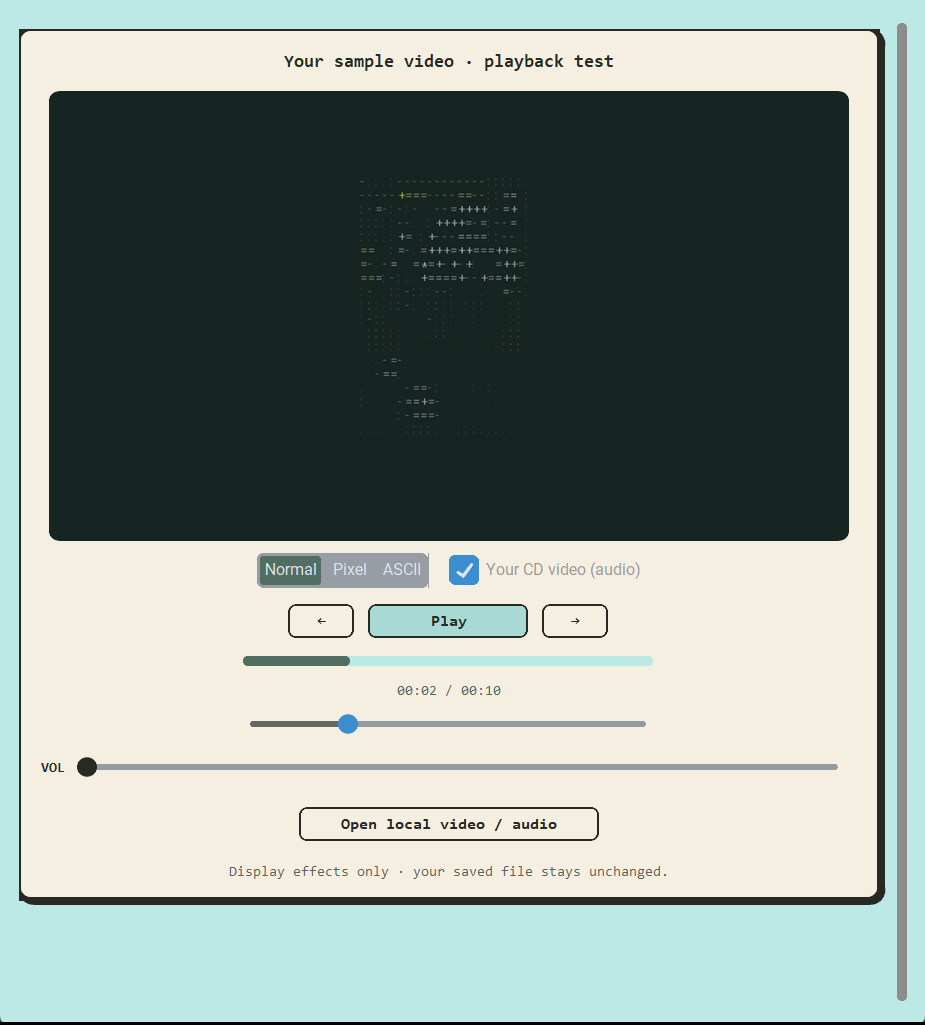
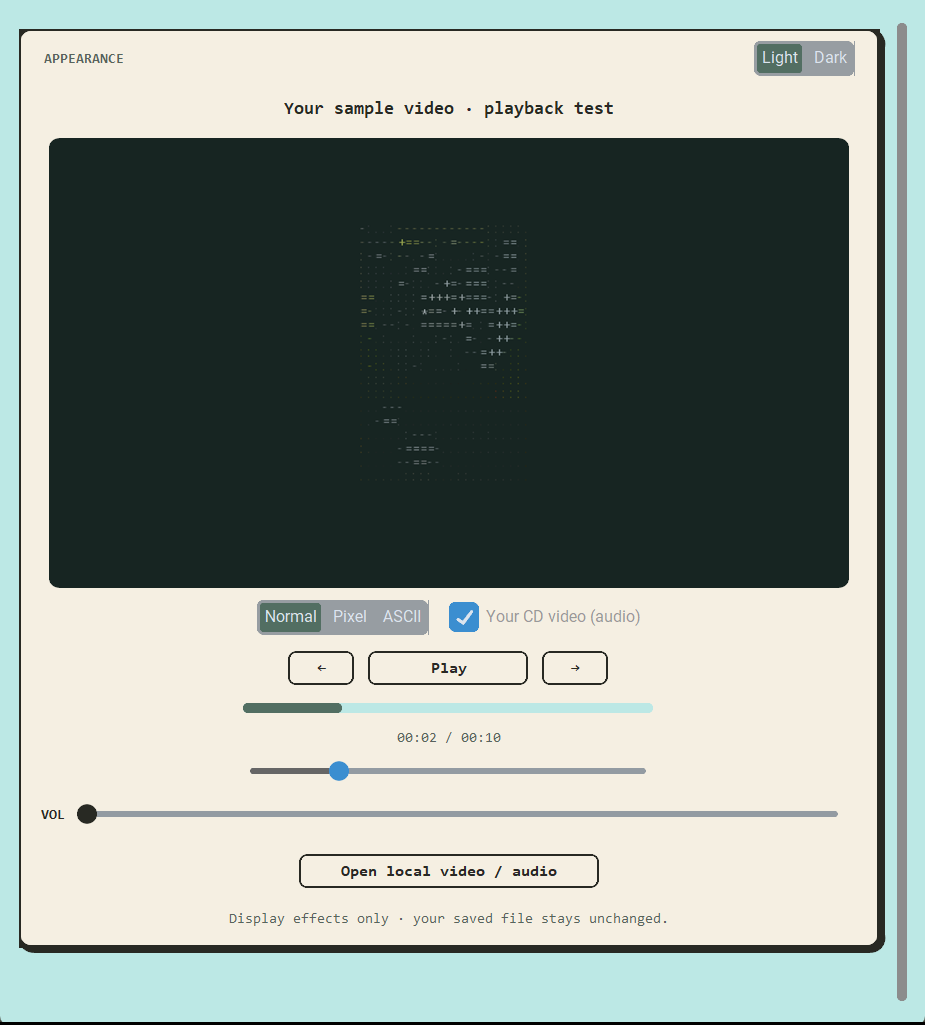
Add player theme controls and landscape CD visual

Changed region(s): [[0.0, 0.5307, 0.9686, 0.9366], [0.0303, 0.0312, 0.9384, 0.1561], [0.4238, 0.1873, 0.5751, 0.3122]]

diff --git a/sundrop/app.py b/sundrop/app.py
@@ -8,7 +8,7 @@ import customtkinter as ctk
 from PIL import Image, ImageDraw, ImageOps
 from core import Downloader, History, friendly_error
 from player import AudioPlayer, VideoPlayer, open_local
-from effects import video_effect
+from effects import video_effect, cd_landscape
 
 ctk.set_appearance_mode('Light')
 BG=('#BCE8E5','#203534');CARD=('#F5EFE2','#293a37');INK=('#282923','#f5efe2');MUTED=('#58635c','#b8cec5');AMBER='#f4bd35';OUTLINE=('#282923','#b8cec5')
@@ -74,7 +74,12 @@ class SunDrop(ctk.CTk):
             elif isinstance(child,ctk.CTkButton):child.configure(border_width=2,border_color=OUTLINE,corner_radius=7,font=ctk.CTkFont(family='Consolas',size=13,weight='bold'),fg_color=CARD,hover_color=('#a9d9d5','#3d5852'),text_color=INK)
             self.style_inputs(child)
 
-    def toggle_theme(self):ctk.set_appearance_mode('Dark' if ctk.get_appearance_mode()=='Light' else 'Light')
+    def set_theme(self,mode):
+        ctk.set_appearance_mode(mode)
+        if hasattr(self,'settings_theme'):self.settings_theme.set(mode)
+        if hasattr(self,'player_theme') and self.player_theme.winfo_exists():self.player_theme.set(ctk.get_appearance_mode())
+
+    def toggle_theme(self):self.set_theme('Dark' if ctk.get_appearance_mode()=='Light' else 'Light')
 
     def card(self,parent):
         shadow=ctk.CTkFrame(parent,fg_color=('#282923','#0f201d'),corner_radius=12);shadow.pack(fill='x',pady=10,padx=(0,5));shadow.grid_columnconfigure(0,weight=1)
@@ -113,7 +118,8 @@ class SunDrop(ctk.CTk):
     def build_settings(self):
         page=self.pages['Settings'];self.label(page,'Keep things comfortable.',28,True).pack(anchor='w',pady=12)
         card=self.card(page);self.label(card,'Appearance',18,True).pack(anchor='w',padx=24,pady=(24,10))
-        ctk.CTkSegmentedButton(card,values=['Light','Dark','System'],command=ctk.set_appearance_mode,selected_color='#b97805',selected_hover_color='#a16a09').pack(anchor='w',padx=24,pady=(0,24))
+        self.settings_theme=ctk.CTkSegmentedButton(card,values=['Light','Dark','System'],command=self.set_theme,selected_color='#b97805',selected_hover_color='#a16a09')
+        self.settings_theme.set(ctk.get_appearance_mode());self.settings_theme.pack(anchor='w',padx=24,pady=(0,24))
         card=self.card(page);self.label(card,'FFmpeg',18,True).pack(anchor='w',padx=24,pady=(24,10))
         self.label(card,('Detected: '+self.service.ffmpeg()) if self.service.ffmpeg() else 'Not installed. Single-file downloads are still available.',13,color=MUTED,wraplength=650).pack(anchor='w',padx=24,pady=(0,24))
         card=self.card(page)
@@ -221,6 +227,10 @@ class SunDrop(ctk.CTk):
         window=self.player_window
         body=ctk.CTkScrollableFrame(window,fg_color=BG);body.pack(fill='both',expand=True,padx=10,pady=8)
         card=self.card(body)
+        theme_row=ctk.CTkFrame(card,fg_color='transparent');theme_row.pack(fill='x',padx=20,pady=(10,0))
+        self.label(theme_row,'APPEARANCE',11,True,color=MUTED).pack(side='left')
+        self.player_theme=ctk.CTkSegmentedButton(theme_row,values=['Light','Dark'],command=self.set_theme,selected_color='#526e62')
+        self.player_theme.set(ctk.get_appearance_mode());self.player_theme.pack(side='right')
         self.track_title=self.label(card,'Open a video or audio file.',14,True,wraplength=620);self.track_title.pack(padx=15,pady=(12,5))
         self.player_cover=ctk.CTkLabel(card,text='Open a local file below, or choose one from your library.',width=640,height=360,fg_color='#172522',corner_radius=8);self.player_cover.pack(padx=20,pady=5)
         effects=ctk.CTkFrame(card,fg_color='transparent');effects.pack(pady=5)
@@ -263,7 +273,7 @@ class SunDrop(ctk.CTk):
             image=video_effect(self.last_frame,self.effect_mode)
         elif self.disc_enabled:
             if self.last_cd_frame is None:return
-            image=video_effect(self.last_cd_frame,'Normal')
+            image=cd_landscape(self.last_cd_frame)
         else:
             try:
                 with Image.open(self.current_track.get('thumbnail','')) as cover:image=ImageOps.contain(cover.convert('RGB'),(300,300))

diff --git a/docs/open_sundrop_test.py b/docs/open_sundrop_test.py
@@ -6,6 +6,7 @@ root=Path(__file__).resolve().parents[1]
 sys.path.insert(0,str(root/'sundrop'))
 from app import SunDrop
 app=SunDrop();app.geometry('1080x640+20+20')
+app.set_theme('Dark')
 app.set_player_volume(0)
 rows=app.service.history.read()
 audio=next((r for r in rows if Path(r.get('path','')).is_file() and Path(r['path']).suffix.lower() in {'.mp3','.m4a','.wav','.ogg','.aac','.flac','.opus'}),None)
@@ -19,6 +20,7 @@ def ready():
                 if player.active and not player.paused:app.toggle_playback()
                 app.set_player_volume(.6);app.notice('Ready for our test. Press Play in the player: your music + the exact CD video you supplied.')
                 app.player_window.lift()
+                app.player_window.focus_force()
                 print('READY: music paused; supplied CD reference displayed; press Play.',flush=True)
             else:app.after(100,pause_when_ready)
         app.after(100,pause_when_ready)

diff --git a/sundrop/effects.py b/sundrop/effects.py
@@ -1,6 +1,11 @@
 """Small Pillow display effects. Input frames and saved media stay untouched."""
 from PIL import Image, ImageDraw, ImageFont, ImageOps
 
+def cd_landscape(frame,size=(640,360)):
+    """Rotate the supplied portrait visual clockwise and fill the display only."""
+    rotated=frame.convert('RGB').transpose(Image.Transpose.ROTATE_270)
+    return ImageOps.fit(rotated,size,method=Image.Resampling.LANCZOS)
+
 def video_effect(frame,mode='Normal',size=(640,360)):
     source=ImageOps.contain(frame.convert('RGB'),size)
     if mode=='Pixel':

diff --git a/docs/check_sundrop_video.py b/docs/check_sundrop_video.py
@@ -43,6 +43,8 @@ try:
     app.player_window.geometry('740x820+500+20');pump(1)
     assert app.last_cd_frame is not None,'The user-provided CD video did not render'
     capture('reference-cd')
+    app.set_theme('Dark');capture('reference-cd-dark')
+    app.set_theme('Light')
     app.toggle_playback();assert app.active_player().paused
     assert not errors,errors
     assert hashlib.sha256(sample.read_bytes()).hexdigest()==before

diff --git a/docs/SUNDROP_VIDEO_FIX.md b/docs/SUNDROP_VIDEO_FIX.md
@@ -8,6 +8,8 @@ The integrated player opens local video and audio files, with play/pause, previo
 
[1 lines of base64/hex data omitted]
 
+The player has explicit Light/Dark buttons at the top, synchronized with the main app's appearance setting. The supplied portrait CD visual is rotated clockwise by 90 degrees and fitted to fill the landscape display. Rotation and fitting happen only to decoded display frames; the original clip and downloaded music are unchanged. Other downloaded videos retain their original orientation.
+
 The GUI uses FFpyplayer for both audio and video. Mixing its SDL libraries with pygame in the same Windows GUI process caused version conflicts during development. The old standalone AudioPlayer API is retained, but the GUI uses one decoder family. Mono/stereo playback is normalized in memory, and the UI avoids reading an uninitialized native audio clock. Neither normalization nor effects write to the original file.
 
 ## Testing
